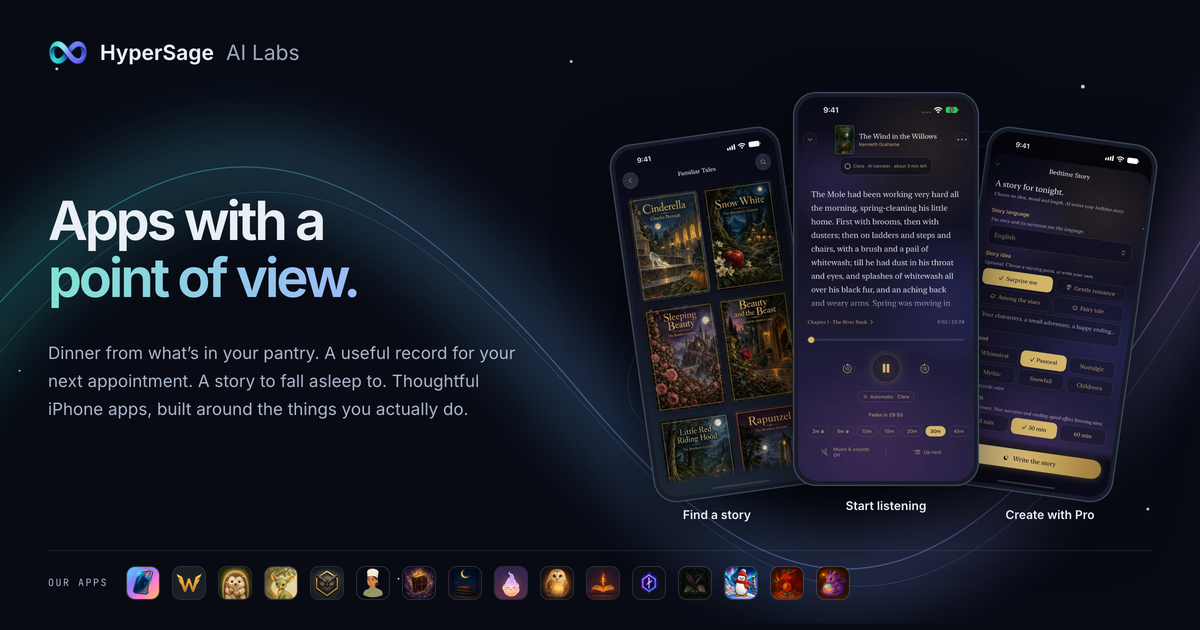
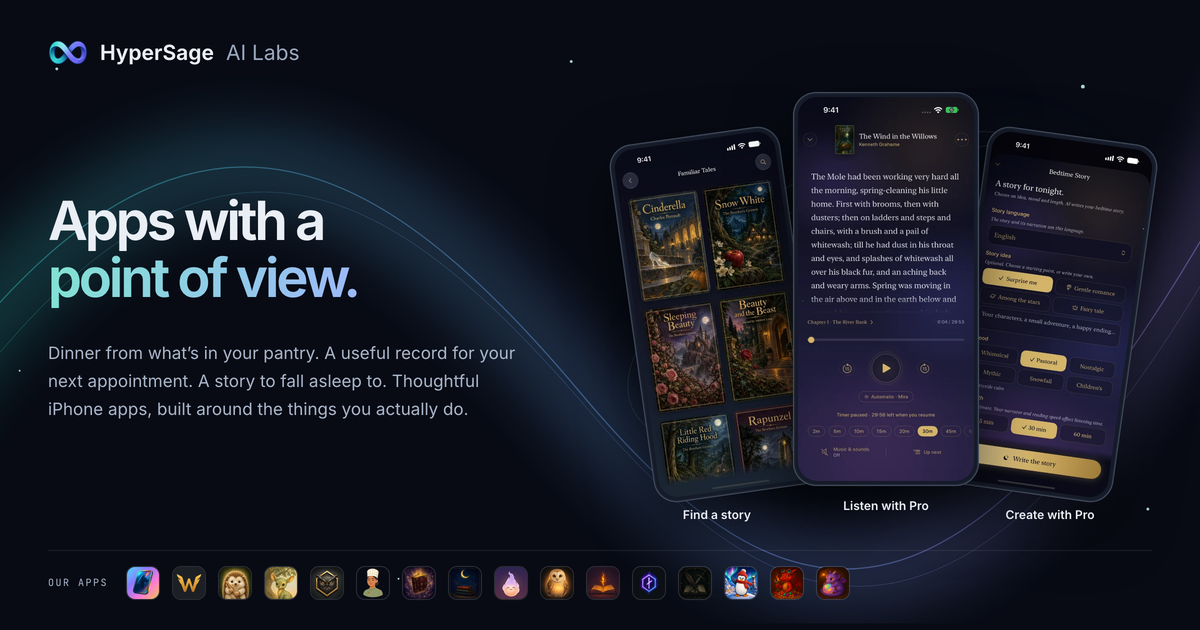
Show an unlocked Nightshelf Pro reader in website screenshots

Changed region(s): [[0.6783, 0.2413, 0.8017, 0.4825], [0.7092, 0.6333, 0.8017, 0.6937], [0.7092, 0.7841, 0.7708, 0.8143]]

diff --git a/index.html b/index.html
@@ -17,7 +17,7 @@
   <meta property="og:description" content="Thoughtful iPhone apps from HyperSage AI Labs. Help with cooking, conversations, notes, health records, bedtime stories and more.">
   <meta property="og:url" content="https://hypersage.ai/">
   <meta property="og:site_name" content="HyperSage AI Labs">
-  <meta property="og:image" content="https://hypersage.ai/og-image.png?v=20261031a">
+  <meta property="og:image" content="https://hypersage.ai/og-image.png?v=20261031c">
   <meta property="og:image:type" content="image/png">
   <meta property="og:image:width" content="1200">
   <meta property="og:image:height" content="630">
@@ -25,7 +25,7 @@
   <meta name="twitter:card" content="summary_large_image">
   <meta name="twitter:title" content="HyperSage AI Labs — Independent Product Studio">
   <meta name="twitter:description" content="Thoughtful iPhone apps from HyperSage AI Labs. Help with cooking, conversations, notes, health records, bedtime stories and more.">
-  <meta name="twitter:image" content="https://hypersage.ai/og-image.png?v=20261031a">
+  <meta name="twitter:image" content="https://hypersage.ai/og-image.png?v=20261031c">
   <meta name="twitter:image:alt" content="HyperSage AI Labs — an independent product studio">
 
   <link rel="icon" type="image/png" href="favicon.png">
@@ -42,7 +42,7 @@
         "legalName": "HyperSage AI Labs LLC",
         "url": "https://hypersage.ai/",
         "logo": "https://hypersage.ai/apple-touch-icon.png",
-        "image": "https://hypersage.ai/og-image.png?v=20261031a",
+        "image": "https://hypersage.ai/og-image.png?v=20261031c",
         "description": "An independent studio making iPhone apps and original games.",
         "email": "support@hypersage.ai",
         "address": { "@type": "PostalAddress", "addressRegion": "DE", "addressCountry": "US" }
@@ -1239,7 +1239,7 @@
         <figure class="product-universe journey" aria-label="Explore HyperSage apps">
           <div class="showcase-stage"><div class="universe-orbit" aria-hidden="true"></div>
           <div class="showcase-phone phone-left"><span class="phone-glass"><img src="assets/showcase/nightshelf-journey-1.webp" alt="Nightshelf: an illustrated Familiar Tales library of classic stories" width="420" height="912"></span><span class="phone-caption"><span class="phone-name">Find a story</span><small></small></span></div>
-          <div class="showcase-phone phone-featured"><span class="phone-glass"><img src="assets/showcase/nightshelf-listening-20261031.webp" alt="Nightshelf: The Wind in the Willows playing with Clara during the free AI-narration welcome, with playback controls and a thirty-minute sleep timer" width="420" height="913" fetchpriority="high"></span><span class="phone-caption"><span class="phone-name">Start listening</span><small></small></span></div>
+          <div class="showcase-phone phone-featured"><span class="phone-glass"><img src="assets/showcase/nightshelf-listening-pro-20261031.webp" alt="Nightshelf Pro: The Wind in the Willows reader paused with Automatic · Mira selected, playback controls, and unlocked sleep timer presets" width="420" height="913" fetchpriority="high"></span><span class="phone-caption"><span class="phone-name">Listen with Pro</span><small></small></span></div>
           <div class="showcase-phone phone-right"><span class="phone-glass"><img src="assets/showcase/nightshelf-journey-2.webp" alt="Nightshelf with Pro: a bedtime-story creator with an idea, mood, and story length" width="420" height="912"></span><span class="phone-caption"><span class="phone-name">Create with Pro</span><small></small></span></div>
           </div><div class="showcase-summary"><p class="showcase-tagline">A story for tonight</p><a class="showcase-explore" href="nightshelf/">Explore <span class="showcase-explore-name">Nightshelf</span> <span class="showcase-explore-arrow" aria-hidden="true">→</span></a></div>
           <div class="showcase-controls" hidden role="group" aria-label="Product showcase controls"><button class="showcase-control" type="button" id="showcase-prev" aria-label="Previous app"><span aria-hidden="true">←</span></button><label class="sr-only" for="showcase-app">Choose an app to explore</label><select class="showcase-select" id="showcase-app">
@@ -2384,7 +2384,7 @@
       var figure = document.querySelector('.product-universe');
       if (!figure || !('IntersectionObserver' in window)) return;
       var apps = [{"name": "Nightshelf", "href": "nightshelf/", "tagline": "A story for tonight"}, {"name": "Wingmate", "href": "wingmate/", "tagline": "Find the words that feel like you"}, {"name": "Loam", "href": "loam/", "tagline": "Your notes, with a little care"}, {"name": "Quietoak", "href": "quietoak/", "tagline": "A little room to breathe"}, {"name": "Saffra", "href": "saffra/", "tagline": "From what’s in the fridge to dinner"}, {"name": "Rowan", "href": "rowan/", "tagline": "Your day, ready for your next visit"}, {"name": "Holohound", "href": "holohound/", "tagline": "From a card to a collection"}, {"name": "CryptoSage AI", "href": "https://cryptosageai.io/", "tagline": "Your market, with more context"}, {"name": "Alder", "href": "alder/", "tagline": "A little support for recovery"}, {"name": "Mythkin", "href": "mythkin/", "tagline": "Conversations across history and imagination"}, {"name": "StoryVault AI", "href": "storyvault/", "tagline": "Stories shaped by your choices"}];
-      var scenes = [[{"name": "Find a story", "href": "nightshelf/", "src": "assets/showcase/nightshelf-journey-1.webp", "alt": "Nightshelf: an illustrated Familiar Tales library of classic stories", "caption": "", "width": 420, "height": 912, "app": "Nightshelf"}, {"name": "Start listening", "href": "nightshelf/", "src": "assets/showcase/nightshelf-listening-20261031.webp", "alt": "Nightshelf: The Wind in the Willows playing with Clara during the free AI-narration welcome, with playback controls and a thirty-minute sleep timer", "caption": "", "width": 420, "height": 913, "app": "Nightshelf"}, {"name": "Create with Pro", "href": "nightshelf/", "src": "assets/showcase/nightshelf-journey-2.webp", "alt": "Nightshelf with Pro: a bedtime-story creator with an idea, mood, and story length", "caption": "", "width": 420, "height": 912, "app": "Nightshelf"}], [{"name": "Keep the context", "href": "wingmate/", "src": "assets/showcase/wingmate-journey-1.webp", "alt": "Wingmate: Connections with example conversations for Olivia, Sophia, Emma, and Chloe", "caption": "", "width": 420, "height": 913, "app": "Wingmate"}, {"name": "Ask your coach", "href": "wingmate/", "src": "assets/showcase/wingmate-journey-2.webp", "alt": "Wingmate: Ava suggests a playful Sunday walk and coffee reply in an example conversation", "caption": "", "width": 420, "height": 913, "app": "Wingmate"}, {"name": "Save your favorites", "href": "wingmate/", "src": "assets/showcase/wingmate-journey-3.webp", "alt": "Wingmate: six saved openers with individual Copy controls", "caption": "", "width": 420, "height": 913, "app": "Wingmate"}], [{"name": "Keep your notes", "href": "loam/", "src": "assets/showcase/loam-journey-1.webp", "alt": "Loam Notes with pinned notes, collection filters, a digest of tended notes and a New note button.", "caption": "", "width": 420, "height": 913, "app": "Loam"}, {"name": "Review a tidy", "href": "loam/", "src": "assets/showcase/loam-journey-2.webp", "alt": "A Kitchen reno note with a Tidied by Loam banner, View original and Undo tidy controls, and commitment marks offering Remind me or Dismiss.", "caption": "", "width": 420, "height": 913, "app": "Loam"}, {"name": "Ask your notes", "href": "loam/", "src": "assets/showcase/loam-journey-3.webp", "alt": "Loam answering What did I promise Tom from the sample Kitchen reno note, with a source-note link, Copy and Ask again controls.", "caption": "", "width": 420, "height": 913, "app": "Loam"}], [{"name": "Talk it through", "href": "quietoak/", "src": "assets/showcase/quietoak-journey-1.webp", "alt": "Quietoak: a conversation with Willow and a STOP skill card", "caption": "", "width": 420, "height": 913, "app": "Quietoak"}, {"name": "Make a plan", "href": "quietoak/", "src": "assets/showcase/quietoak-journey-2.webp", "alt": "Quietoak: a saved practice plan with a cue, response, and rehearsal controls", "caption": "", "width": 420, "height": 913, "app": "Quietoak"}, {"name": "Try one small step", "href": "quietoak/", "src": "assets/showcase/quietoak-journey-3.webp", "alt": "Quietoak: guided STOP practice with Willow, with Next and Back controls", "caption": "", "width": 420, "height": 913, "app": "Quietoak"}], [{"name": "Find a recipe", "href": "saffra/", "src": "assets/showcase/saffra-journey-1.webp", "alt": "Saffra: Aglio e Olio and a row of quick dinner recipes", "caption": "", "width": 420, "height": 913, "app": "Saffra"}, {"name": "Ask your cook", "href": "saffra/", "src": "assets/showcase/saffra-journey-2.webp", "alt": "Saffra checks a sample pantry and suggests Chicken Thigh Puttanesca for a thirty-minute dinner", "caption": "", "width": 420, "height": 913, "app": "Saffra"}, {"name": "Cook step by step", "href": "saffra/", "src": "assets/showcase/saffra-journey-3.webp", "alt": "Saffra: Cooking Mode for Aglio e Olio, with voice controls and a suggested fifteen-minute timer", "caption": "", "width": 420, "height": 913, "app": "Saffra"}], [{"name": "Check in today", "href": "rowan/", "src": "assets/showcase/rowan-journey-1.webp", "alt": "Rowan: a sample mood check-in, symptom log, upcoming neurology appointment, and medication section", "caption": "", "width": 420, "height": 909, "app": "Rowan"}, {"name": "Log a symptom", "href": "rowan/", "src": "assets/showcase/rowan-journey-2.webp", "alt": "Rowan: Quick log with Fatigue selected and a sample severity rating of five out of ten", "caption": "", "width": 420, "height": 909, "app": "Rowan"}, {"name": "Prepare your visit", "href": "rowan/", "src": "assets/showcase/rowan-journey-3.webp", "alt": "Rowan: a sample neurology visit brief with a patient question, health background, conditions, and allergies", "caption": "", "width": 420, "height": 909, "app": "Rowan"}], [{"name": "Scan your cards", "href": "holohound/", "src": "assets/showcase/holohound-journey-20261030-1.webp", "alt": "HoloHound demo viewfinder recognizing an Umbreon VMAX card, with search, capture and batch controls.", "caption": "", "width": 420, "height": 913, "app": "Holohound"}, {"name": "Read the report", "href": "holohound/", "src": "assets/showcase/holohound-journey-20261030-2.webp", "alt": "HoloHound Umbreon VMAX report with card details, a cached quote with source date, and separately attributed US and European prices.", "caption": "", "width": 420, "height": 913, "app": "Holohound"}, {"name": "Track your binder", "href": "holohound/", "src": "assets/showcase/holohound-journey-20261030-3.webp", "alt": "HoloHound Home with a sample collection value and history, card movers, and Scan a card and Ask Hound actions.", "caption": "", "width": 420, "height": 913, "app": "Holohound"}], [{"name": "Follow the market", "href": "https://cryptosageai.io/", "src": "assets/showcase/cryptosage-journey-1.webp", "alt": "CryptoSage AI: demo Home with a portfolio chart, watchlist, and market movers", "caption": "", "width": 420, "height": 913, "app": "CryptoSage AI"}, {"name": "See your holdings", "href": "https://cryptosageai.io/", "src": "assets/showcase/cryptosage-journey-2.webp", "alt": "CryptoSage AI: portfolio allocation and holdings using demo data", "caption": "", "width": 420, "height": 913, "app": "CryptoSage AI"}, {"name": "Ask a question", "href": "https://cryptosageai.io/", "src": "assets/showcase/cryptosage-journey-3.webp", "alt": "CryptoSage AI: an educational AI answer about watchlists, charts, and technical signals", "caption": "", "width": 420, "height": 913, "app": "CryptoSage AI"}], [{"name": "Track recovery", "href": "alder/", "src": "assets/showcase/alder-journey-1.webp", "alt": "Alder Today with a painted night tree, example recovery counters for Alcohol and Vaping, and Talk to Alder and Check in buttons.", "caption": "", "width": 420, "height": 909, "app": "Alder"}, {"name": "Daily check-in", "href": "alder/", "src": "assets/showcase/alder-journey-2.webp", "alt": "Alder Check in with a selected daily mood, separate Alcohol and Vaping craving ratings, a Tired factor, a sample note and Save check-in.", "caption": "", "width": 420, "height": 909, "app": "Alder"}, {"name": "Try a tool", "href": "alder/", "src": "assets/showcase/alder-journey-3.webp", "alt": "Alder Toolbox listing Urge surfing, Play the tape forward, DEADS and SOBER breathing, with duration labels and explanations.", "caption": "", "width": 420, "height": 909, "app": "Alder"}], [{"name": "Meet the cast", "href": "mythkin/", "src": "assets/showcase/mythkin-journey-1.webp", "alt": "Mythkin Discover with Find a kin, Read a story and Create a kin actions, a Start a Hearth control, featured Oedipus and painted character collections.", "caption": "", "width": 420, "height": 911, "app": "Mythkin"}, {"name": "Talk with a kin", "href": "mythkin/", "src": "assets/showcase/mythkin-journey-2.webp", "alt": "A Mythkin conversation with Sherlock Holmes about a torn ticket found in a coat pocket; the header identifies an AI character, not a person.", "caption": "", "width": 420, "height": 911, "app": "Mythkin"}, {"name": "Create your kin", "href": "mythkin/", "src": "assets/showcase/mythkin-journey-3.webp", "alt": "Mythkin New kin form partially filled for Maeve, a cottage witch, with a silhouette preview, personality, name, description and story fields.", "caption": "", "width": 420, "height": 911, "app": "Mythkin"}], [{"name": "Find a world", "href": "storyvault/", "src": "assets/showcase/storyvault-journey-1.webp", "alt": "StoryVault Original Worlds with painted covers for Beowulf at Heorot, The Scribes of the Veiled Mere, The Same Day at Vialdi and Veilkeep Manor.", "caption": "", "width": 420, "height": 912, "app": "StoryVault AI"}, {"name": "Choose your path", "href": "storyvault/", "src": "assets/showcase/storyvault-journey-2.webp", "alt": "An illustrated Dracula adventure with a castle scene, story passage, Listen control, three choices and a field for a custom response.", "caption": "", "width": 420, "height": 912, "app": "StoryVault AI"}, {"name": "Write your story", "href": "storyvault/", "src": "assets/showcase/storyvault-journey-3.webp", "alt": "StoryVault Write Your Own Story with an idea field, quick-start inspirations including Heist Caper and Haunted Mystery, Help build my brief and Begin Story controls.", "caption": "", "width": 420, "height": 912, "app": "StoryVault AI"}]];
+      var scenes = [[{"name": "Find a story", "href": "nightshelf/", "src": "assets/showcase/nightshelf-journey-1.webp", "alt": "Nightshelf: an illustrated Familiar Tales library of classic stories", "caption": "", "width": 420, "height": 912, "app": "Nightshelf"}, {"name": "Listen with Pro", "href": "nightshelf/", "src": "assets/showcase/nightshelf-listening-pro-20261031.webp", "alt": "Nightshelf Pro: The Wind in the Willows reader paused with Automatic · Mira selected, playback controls, and unlocked sleep timer presets", "caption": "", "width": 420, "height": 913, "app": "Nightshelf"}, {"name": "Create with Pro", "href": "nightshelf/", "src": "assets/showcase/nightshelf-journey-2.webp", "alt": "Nightshelf with Pro: a bedtime-story creator with an idea, mood, and story length", "caption": "", "width": 420, "height": 912, "app": "Nightshelf"}], [{"name": "Keep the context", "href": "wingmate/", "src": "assets/showcase/wingmate-journey-1.webp", "alt": "Wingmate: Connections with example conversations for Olivia, Sophia, Emma, and Chloe", "caption": "", "width": 420, "height": 913, "app": "Wingmate"}, {"name": "Ask your coach", "href": "wingmate/", "src": "assets/showcase/wingmate-journey-2.webp", "alt": "Wingmate: Ava suggests a playful Sunday walk and coffee reply in an example conversation", "caption": "", "width": 420, "height": 913, "app": "Wingmate"}, {"name": "Save your favorites", "href": "wingmate/", "src": "assets/showcase/wingmate-journey-3.webp", "alt": "Wingmate: six saved openers with individual Copy controls", "caption": "", "width": 420, "height": 913, "app": "Wingmate"}], [{"name": "Keep your notes", "href": "loam/", "src": "assets/showcase/loam-journey-1.webp", "alt": "Loam Notes with pinned notes, collection filters, a digest of tended notes and a New note button.", "caption": "", "width": 420, "height": 913, "app": "Loam"}, {"name": "Review a tidy", "href": "loam/", "src": "assets/showcase/loam-journey-2.webp", "alt": "A Kitchen reno note with a Tidied by Loam banner, View original and Undo tidy controls, and commitment marks offering Remind me or Dismiss.", "caption": "", "width": 420, "height": 913, "app": "Loam"}, {"name": "Ask your notes", "href": "loam/", "src": "assets/showcase/loam-journey-3.webp", "alt": "Loam answering What did I promise Tom from the sample Kitchen reno note, with a source-note link, Copy and Ask again controls.", "caption": "", "width": 420, "height": 913, "app": "Loam"}], [{"name": "Talk it through", "href": "quietoak/", "src": "assets/showcase/quietoak-journey-1.webp", "alt": "Quietoak: a conversation with Willow and a STOP skill card", "caption": "", "width": 420, "height": 913, "app": "Quietoak"}, {"name": "Make a plan", "href": "quietoak/", "src": "assets/showcase/quietoak-journey-2.webp", "alt": "Quietoak: a saved practice plan with a cue, response, and rehearsal controls", "caption": "", "width": 420, "height": 913, "app": "Quietoak"}, {"name": "Try one small step", "href": "quietoak/", "src": "assets/showcase/quietoak-journey-3.webp", "alt": "Quietoak: guided STOP practice with Willow, with Next and Back controls", "caption": "", "width": 420, "height": 913, "app": "Quietoak"}], [{"name": "Find a recipe", "href": "saffra/", "src": "assets/showcase/saffra-journey-1.webp", "alt": "Saffra: Aglio e Olio and a row of quick dinner recipes", "caption": "", "width": 420, "height": 913, "app": "Saffra"}, {"name": "Ask your cook", "href": "saffra/", "src": "assets/showcase/saffra-journey-2.webp", "alt": "Saffra checks a sample pantry and suggests Chicken Thigh Puttanesca for a thirty-minute dinner", "caption": "", "width": 420, "height": 913, "app": "Saffra"}, {"name": "Cook step by step", "href": "saffra/", "src": "assets/showcase/saffra-journey-3.webp", "alt": "Saffra: Cooking Mode for Aglio e Olio, with voice controls and a suggested fifteen-minute timer", "caption": "", "width": 420, "height": 913, "app": "Saffra"}], [{"name": "Check in today", "href": "rowan/", "src": "assets/showcase/rowan-journey-1.webp", "alt": "Rowan: a sample mood check-in, symptom log, upcoming neurology appointment, and medication section", "caption": "", "width": 420, "height": 909, "app": "Rowan"}, {"name": "Log a symptom", "href": "rowan/", "src": "assets/showcase/rowan-journey-2.webp", "alt": "Rowan: Quick log with Fatigue selected and a sample severity rating of five out of ten", "caption": "", "width": 420, "height": 909, "app": "Rowan"}, {"name": "Prepare your visit", "href": "rowan/", "src": "assets/showcase/rowan-journey-3.webp", "alt": "Rowan: a sample neurology visit brief with a patient question, health background, conditions, and allergies", "caption": "", "width": 420, "height": 909, "app": "Rowan"}], [{"name": "Scan your cards", "href": "holohound/", "src": "assets/showcase/holohound-journey-20261030-1.webp", "alt": "HoloHound demo viewfinder recognizing an Umbreon VMAX card, with search, capture and batch controls.", "caption": "", "width": 420, "height": 913, "app": "Holohound"}, {"name": "Read the report", "href": "holohound/", "src": "assets/showcase/holohound-journey-20261030-2.webp", "alt": "HoloHound Umbreon VMAX report with card details, a cached quote with source date, and separately attributed US and European prices.", "caption": "", "width": 420, "height": 913, "app": "Holohound"}, {"name": "Track your binder", "href": "holohound/", "src": "assets/showcase/holohound-journey-20261030-3.webp", "alt": "HoloHound Home with a sample collection value and history, card movers, and Scan a card and Ask Hound actions.", "caption": "", "width": 420, "height": 913, "app": "Holohound"}], [{"name": "Follow the market", "href": "https://cryptosageai.io/", "src": "assets/showcase/cryptosage-journey-1.webp", "alt": "CryptoSage AI: demo Home with a portfolio chart, watchlist, and market movers", "caption": "", "width": 420, "height": 913, "app": "CryptoSage AI"}, {"name": "See your holdings", "href": "https://cryptosageai.io/", "src": "assets/showcase/cryptosage-journey-2.webp", "alt": "CryptoSage AI: portfolio allocation and holdings using demo data", "caption": "", "width": 420, "height": 913, "app": "CryptoSage AI"}, {"name": "Ask a question", "href": "https://cryptosageai.io/", "src": "assets/showcase/cryptosage-journey-3.webp", "alt": "CryptoSage AI: an educational AI answer about watchlists, charts, and technical signals", "caption": "", "width": 420, "height": 913, "app": "CryptoSage AI"}], [{"name": "Track recovery", "href": "alder/", "src": "assets/showcase/alder-journey-1.webp", "alt": "Alder Today with a painted night tree, example recovery counters for Alcohol and Vaping, and Talk to Alder and Check in buttons.", "caption": "", "width": 420, "height": 909, "app": "Alder"}, {"name": "Daily check-in", "href": "alder/", "src": "assets/showcase/alder-journey-2.webp", "alt": "Alder Check in with a selected daily mood, separate Alcohol and Vaping craving ratings, a Tired factor, a sample note and Save check-in.", "caption": "", "width": 420, "height": 909, "app": "Alder"}, {"name": "Try a tool", "href": "alder/", "src": "assets/showcase/alder-journey-3.webp", "alt": "Alder Toolbox listing Urge surfing, Play the tape forward, DEADS and SOBER breathing, with duration labels and explanations.", "caption": "", "width": 420, "height": 909, "app": "Alder"}], [{"name": "Meet the cast", "href": "mythkin/", "src": "assets/showcase/mythkin-journey-1.webp", "alt": "Mythkin Discover with Find a kin, Read a story and Create a kin actions, a Start a Hearth control, featured Oedipus and painted character collections.", "caption": "", "width": 420, "height": 911, "app": "Mythkin"}, {"name": "Talk with a kin", "href": "mythkin/", "src": "assets/showcase/mythkin-journey-2.webp", "alt": "A Mythkin conversation with Sherlock Holmes about a torn ticket found in a coat pocket; the header identifies an AI character, not a person.", "caption": "", "width": 420, "height": 911, "app": "Mythkin"}, {"name": "Create your kin", "href": "mythkin/", "src": "assets/showcase/mythkin-journey-3.webp", "alt": "Mythkin New kin form partially filled for Maeve, a cottage witch, with a silhouette preview, personality, name, description and story fields.", "caption": "", "width": 420, "height": 911, "app": "Mythkin"}], [{"name": "Find a world", "href": "storyvault/", "src": "assets/showcase/storyvault-journey-1.webp", "alt": "StoryVault Original Worlds with painted covers for Beowulf at Heorot, The Scribes of the Veiled Mere, The Same Day at Vialdi and Veilkeep Manor.", "caption": "", "width": 420, "height": 912, "app": "StoryVault AI"}, {"name": "Choose your path", "href": "storyvault/", "src": "assets/showcase/storyvault-journey-2.webp", "alt": "An illustrated Dracula adventure with a castle scene, story passage, Listen control, three choices and a field for a custom response.", "caption": "", "width": 420, "height": 912, "app": "StoryVault AI"}, {"name": "Write your story", "href": "storyvault/", "src": "assets/showcase/storyvault-journey-3.webp", "alt": "StoryVault Write Your Own Story with an idea field, quick-start inspirations including Heist Caper and Haunted Mystery, Help build my brief and Begin Story controls.", "caption": "", "width": 420, "height": 912, "app": "StoryVault AI"}]];
       var sides = ['.phone-left','.phone-featured','.phone-right'].map(function (selector) { return figure.querySelector(selector); });
       var controls = figure.querySelector('.showcase-controls');
       var count = figure.querySelector('.showcase-count');

diff --git a/nightshelf/index.html b/nightshelf/index.html
@@ -160,7 +160,7 @@
 <p class="hero-note">Start with the free shelf. Made for iPhone.<br>App previews show free and Pro features.</p>
 </div>
 <div class="hero-stage" aria-label="A look inside Nightshelf">
-<div class="device device-back"><picture class=""><source type="image/webp" srcset="shots/20261031/reader-clara-small.webp 420w, shots/20261031/reader-clara.webp 840w" sizes="(max-width: 600px) 70vw, 320px"><img src="shots/20261031/reader-clara.jpg" alt="The Wind in the Willows playing with Clara during the free AI-narration welcome, with playback controls and a thirty-minute sleep timer." width="840" height="1825" loading="eager" fetchpriority=high data-allow-duplicate="true"></picture></div>
+<div class="device device-back"><picture class=""><source type="image/webp" srcset="shots/20261031/reader-mira-pro-small.webp 420w, shots/20261031/reader-mira-pro.webp 840w" sizes="(max-width: 600px) 70vw, 320px"><img src="shots/20261031/reader-mira-pro.jpg" alt="Nightshelf Pro reader for The Wind in the Willows, paused with Automatic · Mira selected and unlocked sleep timer presets." width="840" height="1825" loading="eager" fetchpriority=high data-allow-duplicate="true"></picture></div>
 <div class="device device-front"><picture class=""><source type="image/webp" srcset="shots/20261030/home-small.webp 420w, shots/20261030/home.webp 840w" sizes="(max-width: 600px) 70vw, 320px"><img src="shots/20261030/home.jpg" alt="Nightshelf Home with the unlocked Write a bedtime story card and The Wind in the Willows featured tonight." width="840" height="1825" loading="eager" fetchpriority=high data-allow-duplicate="true"></picture></div>
 
 </div></div>
@@ -180,12 +180,12 @@
 <figure class="screen-card"><div class="device"><a class="screen-open" href="shots/20261030/romance.jpg" target="_blank" rel="noopener" aria-label="View full-size screenshot: Romance shelf showing Pride and Prejudice, North and South, The Blue Castle, and Jane Eyre."><picture class=""><source type="image/webp" srcset="shots/20261030/romance-small.webp 420w, shots/20261030/romance.webp 840w" sizes="(max-width: 600px) 70vw, 320px"><img src="shots/20261030/romance.jpg" alt="Romance shelf showing Pride and Prejudice, North and South, The Blue Castle, and Jane Eyre." width="840" height="1825" loading="lazy" ></picture></a></div><figcaption><h3>Find your kind of story</h3><p>Austen and adventure, fairy tales and philosophy, shelf by shelf.</p></figcaption></figure>
 <figure class="screen-card"><div class="device"><a class="screen-open" href="shots/20261030/history.jpg" target="_blank" rel="noopener" aria-label="View full-size screenshot: History and Biography shelf showing Mark Antony, Alexander the Great, Julius Caesar, and Pericles in the Ancient world collection."><picture class=""><source type="image/webp" srcset="shots/20261030/history-small.webp 420w, shots/20261030/history.webp 840w" sizes="(max-width: 600px) 70vw, 320px"><img src="shots/20261030/history.jpg" alt="History and Biography shelf showing Mark Antony, Alexander the Great, Julius Caesar, and Pericles in the Ancient world collection." width="840" height="1825" loading="lazy" ></picture></a></div><figcaption><h3>Collections within the shelf</h3><p>History and Biography shows how many titles a collection holds.</p></figcaption></figure>
 <figure class="screen-card"><div class="device"><a class="screen-open" href="shots/20261030/book-details.jpg" target="_blank" rel="noopener" aria-label="View full-size screenshot: The Wind in the Willows book details, with its illustrated cover, author Kenneth Grahame, twelve chapters, and Save for later."><picture class=""><source type="image/webp" srcset="shots/20261030/book-details-small.webp 420w, shots/20261030/book-details.webp 840w" sizes="(max-width: 600px) 70vw, 320px"><img src="shots/20261030/book-details.jpg" alt="The Wind in the Willows book details, with its illustrated cover, author Kenneth Grahame, twelve chapters, and Save for later." width="840" height="1825" loading="lazy" ></picture></a></div><figcaption><h3>A closer look at every book</h3><p>Explore the cover, read the synopsis, and save it for another night.</p></figcaption></figure>
-<figure class="screen-card"><div class="device"><a class="screen-open" href="shots/20261031/reader-clara.jpg" target="_blank" rel="noopener" aria-label="View full-size screenshot: The Wind in the Willows playing with Clara during the free AI-narration welcome, with playback controls and a thirty-minute sleep timer."><picture class=""><source type="image/webp" srcset="shots/20261031/reader-clara-small.webp 420w, shots/20261031/reader-clara.webp 840w" sizes="(max-width: 600px) 70vw, 320px"><img src="shots/20261031/reader-clara.jpg" alt="The Wind in the Willows playing with Clara during the free AI-narration welcome, with playback controls and a thirty-minute sleep timer." width="840" height="1825" loading="lazy"  data-allow-duplicate="true"></picture></a></div><figcaption><h3>Your story. Your pace.</h3><p>Read along, listen, and let the sleep timer fade out. Shown with Clara’s free welcome narration.</p></figcaption></figure>
+<figure class="screen-card"><div class="device"><a class="screen-open" href="shots/20261031/reader-mira-pro.jpg" target="_blank" rel="noopener" aria-label="View full-size screenshot: Nightshelf Pro reader for The Wind in the Willows, paused with Automatic · Mira selected and unlocked sleep timer presets."><picture class=""><source type="image/webp" srcset="shots/20261031/reader-mira-pro-small.webp 420w, shots/20261031/reader-mira-pro.webp 840w" sizes="(max-width: 600px) 70vw, 320px"><img src="shots/20261031/reader-mira-pro.jpg" alt="Nightshelf Pro reader for The Wind in the Willows, paused with Automatic · Mira selected and unlocked sleep timer presets." width="840" height="1825" loading="lazy"  data-allow-duplicate="true"></picture></a></div><figcaption><h3>Your story. Your pace.</h3><p>Read along, choose a narrator, and set your sleep timer. Shown with Nightshelf Pro.</p></figcaption></figure>
 <figure class="screen-card"><div class="device"><a class="screen-open" href="shots/20261030/up-next.jpg" target="_blank" rel="noopener" aria-label="View full-size screenshot: Up next queue with The Velveteen Rabbit, Cinderella, Snow White, and Sleeping Beauty, plus the paused sleep timer."><picture class=""><source type="image/webp" srcset="shots/20261030/up-next-small.webp 420w, shots/20261030/up-next.webp 840w" sizes="(max-width: 600px) 70vw, 320px"><img src="shots/20261030/up-next.jpg" alt="Up next queue with The Velveteen Rabbit, Cinderella, Snow White, and Sleeping Beauty, plus the paused sleep timer." width="840" height="1825" loading="lazy" ></picture></a></div><figcaption><h3>Line up the night</h3><p>Queue a few stories. Your place and timer carry over.</p></figcaption></figure>
 <figure class="screen-card"><div class="device"><a class="screen-open" href="shots/20261030/find-place.jpg" target="_blank" rel="noopener" aria-label="View full-size screenshot: Find your place in Persuasion, with five minutes before the timer fade, a passage preview, and Go to this passage."><picture class=""><source type="image/webp" srcset="shots/20261030/find-place-small.webp 420w, shots/20261030/find-place.webp 840w" sizes="(max-width: 600px) 70vw, 320px"><img src="shots/20261030/find-place.jpg" alt="Find your place in Persuasion, with five minutes before the timer fade, a passage preview, and Go to this passage." width="840" height="1825" loading="lazy" ></picture></a></div><figcaption><h3>Where was I?</h3><p>Fell asleep? Count back a few minutes and go to the passage.</p></figcaption></figure>
 <figure class="screen-card"><div class="device"><a class="screen-open" href="shots/20261030/narrators.jpg" target="_blank" rel="noopener" aria-label="View full-size screenshot: Nightshelf narrator chooser with Mira, Rowan, Alden, Clara, and Ellis, plus Preview and Use voice controls."><picture class=""><source type="image/webp" srcset="shots/20261030/narrators-small.webp 420w, shots/20261030/narrators.webp 840w" sizes="(max-width: 600px) 70vw, 320px"><img src="shots/20261030/narrators.jpg" alt="Nightshelf narrator chooser with Mira, Rowan, Alden, Clara, and Ellis, plus Preview and Use voice controls." width="840" height="1825" loading="lazy" ></picture></a></div><figcaption><h3>Find your evening voice</h3><p>Ten narrators, with a range of accents. Preview any of them free; choosing one is part of Pro.</p></figcaption></figure>
 <figure class="screen-card"><div class="device"><a class="screen-open" href="shots/20261030/sounds.jpg" target="_blank" rel="noopener" aria-label="View full-size screenshot: Nightshelf Music and sounds with Moonlit Piano, Evening Strings, Rain, Thunderstorm, Fireplace, Wind, Ocean, and Stream, with Rain selected."><picture class=""><source type="image/webp" srcset="shots/20261030/sounds-small.webp 420w, shots/20261030/sounds.webp 840w" sizes="(max-width: 600px) 70vw, 320px"><img src="shots/20261030/sounds.jpg" alt="Nightshelf Music and sounds with Moonlit Piano, Evening Strings, Rain, Thunderstorm, Fireplace, Wind, Ocean, and Stream, with Rain selected." width="840" height="1825" loading="lazy" ></picture></a></div><figcaption><h3>A little atmosphere</h3><p>Rain, leaves, music, and more, beneath the story.</p></figcaption></figure>
-<figure class="screen-card"><div class="device"><a class="screen-open" href="shots/20261030/story.jpg" target="_blank" rel="noopener" aria-label="View full-size screenshot: Unlocked Bedtime Story creator with English, Surprise me, Pastoral mood, a thirty-minute length, and Write the story."><picture class=""><source type="image/webp" srcset="shots/20261030/story-small.webp 420w, shots/20261030/story.webp 840w" sizes="(max-width: 600px) 70vw, 320px"><img src="shots/20261030/story.jpg" alt="Unlocked Bedtime Story creator with English, Surprise me, Pastoral mood, a thirty-minute length, and Write the story." width="840" height="1825" loading="lazy" ></picture></a></div><figcaption><h3>Something only for tonight</h3><p>Choose an idea and mood. Pro writes a new story with AI.</p></figcaption></figure></div><p class="gallery-footnote">Screens from Nightshelf 1.9.22, showing free and Pro features. Tap a screen to explore. Availability follows your installed version.</p></div></section>
+<figure class="screen-card"><div class="device"><a class="screen-open" href="shots/20261030/story.jpg" target="_blank" rel="noopener" aria-label="View full-size screenshot: Unlocked Bedtime Story creator with English, Surprise me, Pastoral mood, a thirty-minute length, and Write the story."><picture class=""><source type="image/webp" srcset="shots/20261030/story-small.webp 420w, shots/20261030/story.webp 840w" sizes="(max-width: 600px) 70vw, 320px"><img src="shots/20261030/story.jpg" alt="Unlocked Bedtime Story creator with English, Surprise me, Pastoral mood, a thirty-minute length, and Write the story." width="840" height="1825" loading="lazy" ></picture></a></div><figcaption><h3>Something only for tonight</h3><p>Choose an idea and mood. Pro writes a new story with AI.</p></figcaption></figure></div><p class="gallery-footnote">Screens from Nightshelf 1.9.22 with Pro enabled. Tap a screen to explore. Availability follows your installed version.</p></div></section>
 
 <section class="sound-section section" id="sound"><div class="container">
 <div class="audio-section-heading"><p class="eyebrow">The voices and sounds of Nightshelf</p><h2>Find your evening voice.</h2><p>Try a narrator. Choose a background sound. Hear them together, just as you can in the app.</p></div>
